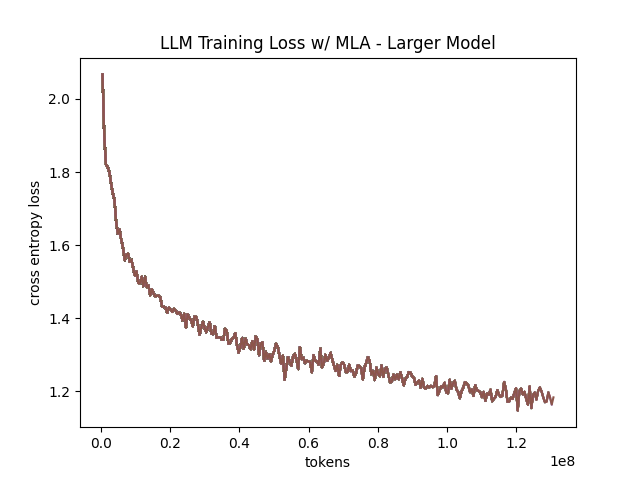
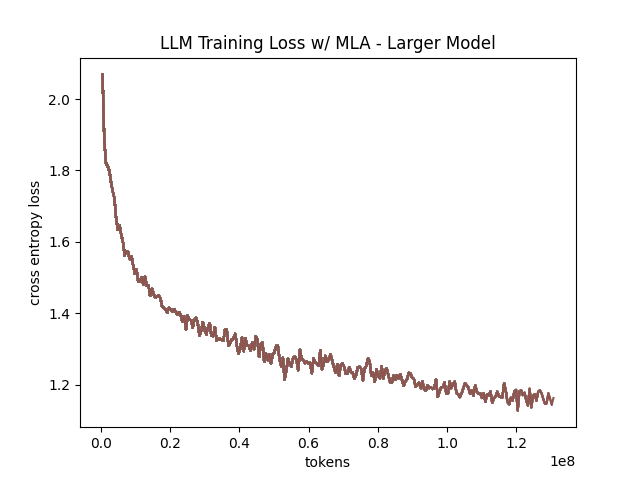
we did it

diff --git a/final_project/modeling/attention/mla.py b/final_project/modeling/attention/mla.py
@@ -153,7 +153,6 @@ class RopelessMLA(torch.nn.Module):
 
         return x, compressed_kv
     
-# TODO: Implement with RoPE
 class MLA(torch.nn.Module):
     def __init__(self, d_model, n_heads, max_len=1024, rope_theta=10000.0):
         super().__init__()
@@ -163,8 +162,8 @@ class MLA(torch.nn.Module):
         self.q_proj_dim = d_model // 2
         self.kv_proj_dim = (2*d_model) // 3
 
-        self.qk_nope_dim = 3 * (self.dh // 4)
-        self.qk_rope_dim = self.dh // 4
+        self.qk_nope_dim = self.dh // 2
+        self.qk_rope_dim = self.dh // 2
         
         ## Q projections
         # Lora

diff --git a/final_project/eval_model.py b/final_project/eval_model.py
@@ -41,7 +41,7 @@ def main():
     #model_path = "./weights/reference_model.pt"
     #model_path = "./weights/35m_model.pt"
     #model_path = "./weights/mqa_model.pt"
-    model_path = "./weights/mla_test_rope.pt" 
+    model_path = "./weights/model_weights.pt" 
     use_mla = True
     use_mqa = False
     use_rope = True
